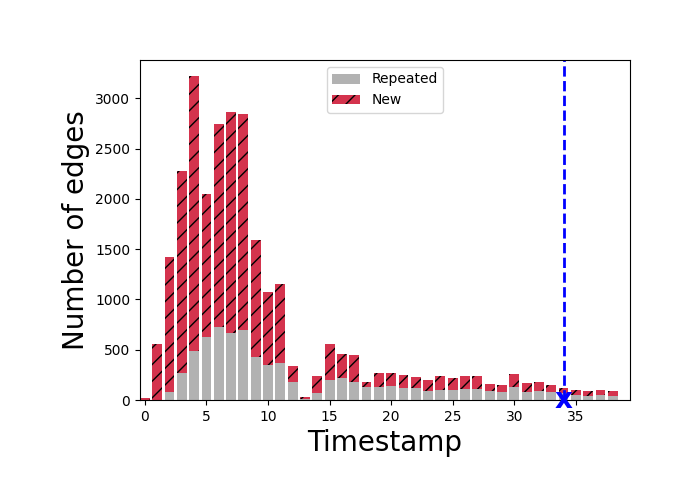
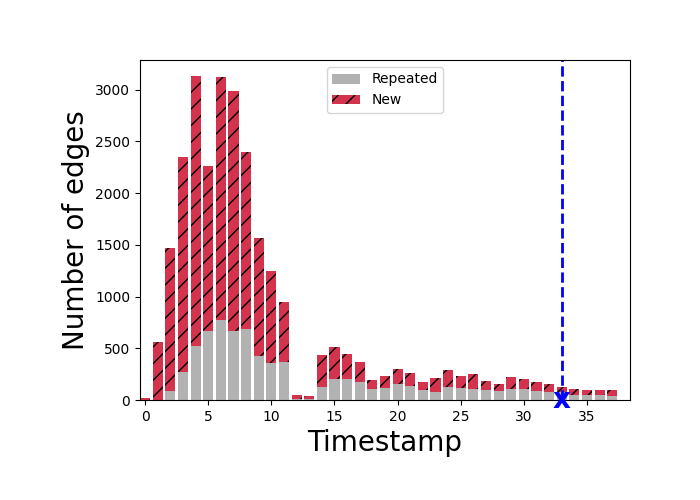
update

diff --git a/examples/test.py b/examples/test.py
@@ -18,19 +18,21 @@ from tgn.algorithms.visualization import TEA, TET
 #            'Contacts'
 #            ]
 
-# network = ["MOOC"]
-# for ntw in network:
-#     data = read_edgelist(data = ntw)
-#     plot_path = "./examples/plots/TET/"
-#     TET(data, plot_path, network_name=ntw)
+network = ["UCI"]
+for ntw in network:
+    data = read_edgelist(data = ntw)
+    plot_path = "./examples/plots/TEA/"
+    TEA(data, plot_path, network_name=ntw)
+    # plot_path1 = "./examples/plots/TET/"
+    # TET(data, plot_path1, network_name=ntw)
 
-data = read_edgelist(fname="/home/mila/r/razieh.shirzadkhani/.conda/envs/tg/lib/"
-                "python3.9/site-packages/tgb/datasets/tgbl_review/tgbl-review_edgelist_v2.csv", 
-                header=True, 
-                t_col=0,
-                continuous=True,
-                intervals=30)
-plot_path2 = "./examples/plots/TEA/"
-TEA(data, plot_path2, network_name="tgbl-review")
-plot_path1 = "./examples/plots/TET/"
-TET(data, plot_path1, network_name="tgbl-review")
+# data = read_edgelist(fname="/home/mila/r/razieh.shirzadkhani/.conda/envs/tg/lib/"
+#                 "python3.9/site-packages/tgb/datasets/tgbl_review/tgbl-review_edgelist_v2.csv", 
+#                 header=True, 
+#                 t_col=0,
+#                 continuous=True,
+#                 intervals=30)
+# plot_path2 = "./examples/plots/TEA/"
+# TEA(data, plot_path2, network_name="tgbl-review")
+# plot_path1 = "./examples/plots/TET/"
+# TET(data, plot_path1, network_name="tgbl-review")

diff --git a/tgn/algorithms/visualization.py b/tgn/algorithms/visualization.py
@@ -1,8 +1,9 @@
 import numpy as np
 import pandas as pd
 import matplotlib.pyplot as plt
-from tgn.readwrite.read_files import *
+# from tgn.utils.edgelist import cont_to_disc_edgelist
 import seaborn as sns
+from tqdm import tqdm
 
 
 def TEA(
@@ -11,9 +12,16 @@ def TEA(
         fig_size = (7,5),
         font_size = 20, 
         network_name=None,
-        density = False
+        density = False,
+        intervals = None
         ):
     
+    # check number of unique timestamps:
+    # unique_ts = list(temp_edgelist.keys())
+    # if unique_ts > 100 or intervals is not None:
+    #     cont_to_disc_edgelist()
+
+
     ts_edges_dist, ts_edges_dist_density, edge_frequency_dict = TEA_process_edgelist_per_timestamp(temp_edgelist)
     
     TEA_plot_edges_bar(ts_edges_dist, 
@@ -48,6 +56,7 @@ def TEA_process_edgelist_per_timestamp(temp_edgelist):
     ts_edges_dist = []  # contains different features specifying the characteristics of the edge distribution over time
     ts_edges_dist_density = []
     for curr_t in unique_ts:
+            print(curr_t)
         # if curr_t < 63072000:
             prev_ts = [ts for ts in unique_ts if ts < curr_t]
             edges_in_prev_ts = {}
@@ -129,6 +138,7 @@ def TEA_plot_edges_bar(ts_edges_dist,
 
     duration = ts_edges_dist_df['ts'].tolist()
     timestamps = [i for i in range(len(duration))]
+    print(timestamps[int(0.85 * len(timestamps))])
     # timestamps = ts_edges_dist_df['ts'].tolist()
     
     new = ts_edges_dist_df['new'].tolist()

diff --git a/tgn/datasets/data_loader.py b/tgn/datasets/data_loader.py
@@ -23,8 +23,8 @@ Data_specifications = {
     'Reddit'    : {'header': True, 'index': False, 'cont_to_disc': True, 'intervals': 'daily'},
     'Wikipedia' : {'header': True, 'index': False, 'cont_to_disc': True, 'intervals': 'daily'},
     'Enron'     : {'header': True, 'index': True, 'cont_to_disc': True, 'intervals': 'monthly'},
-    'MOOC'      : {'header': True, 'index': False, 'cont_to_disc': True, 'intervals': 28},
-    'UCI'       : {'header': True, 'index': True, 'cont_to_disc': True, 'intervals': 39},
+    'MOOC'      : {'header': True, 'index': False, 'cont_to_disc': True, 'intervals': 'daily'},
+    'UCI'       : {'header': True, 'index': True, 'cont_to_disc': True, 'intervals': 38},
     'SocialEvo' : {'header': True, 'index': True, 'cont_to_disc': True, 'intervals': 40},
     'Flights'   : {'header': True, 'index': False, 'cont_to_disc': False, 'intervals': None},
     'LastFM'    : {'header': True, 'index': False, 'cont_to_disc': True, 'intervals': 'monthly'},
